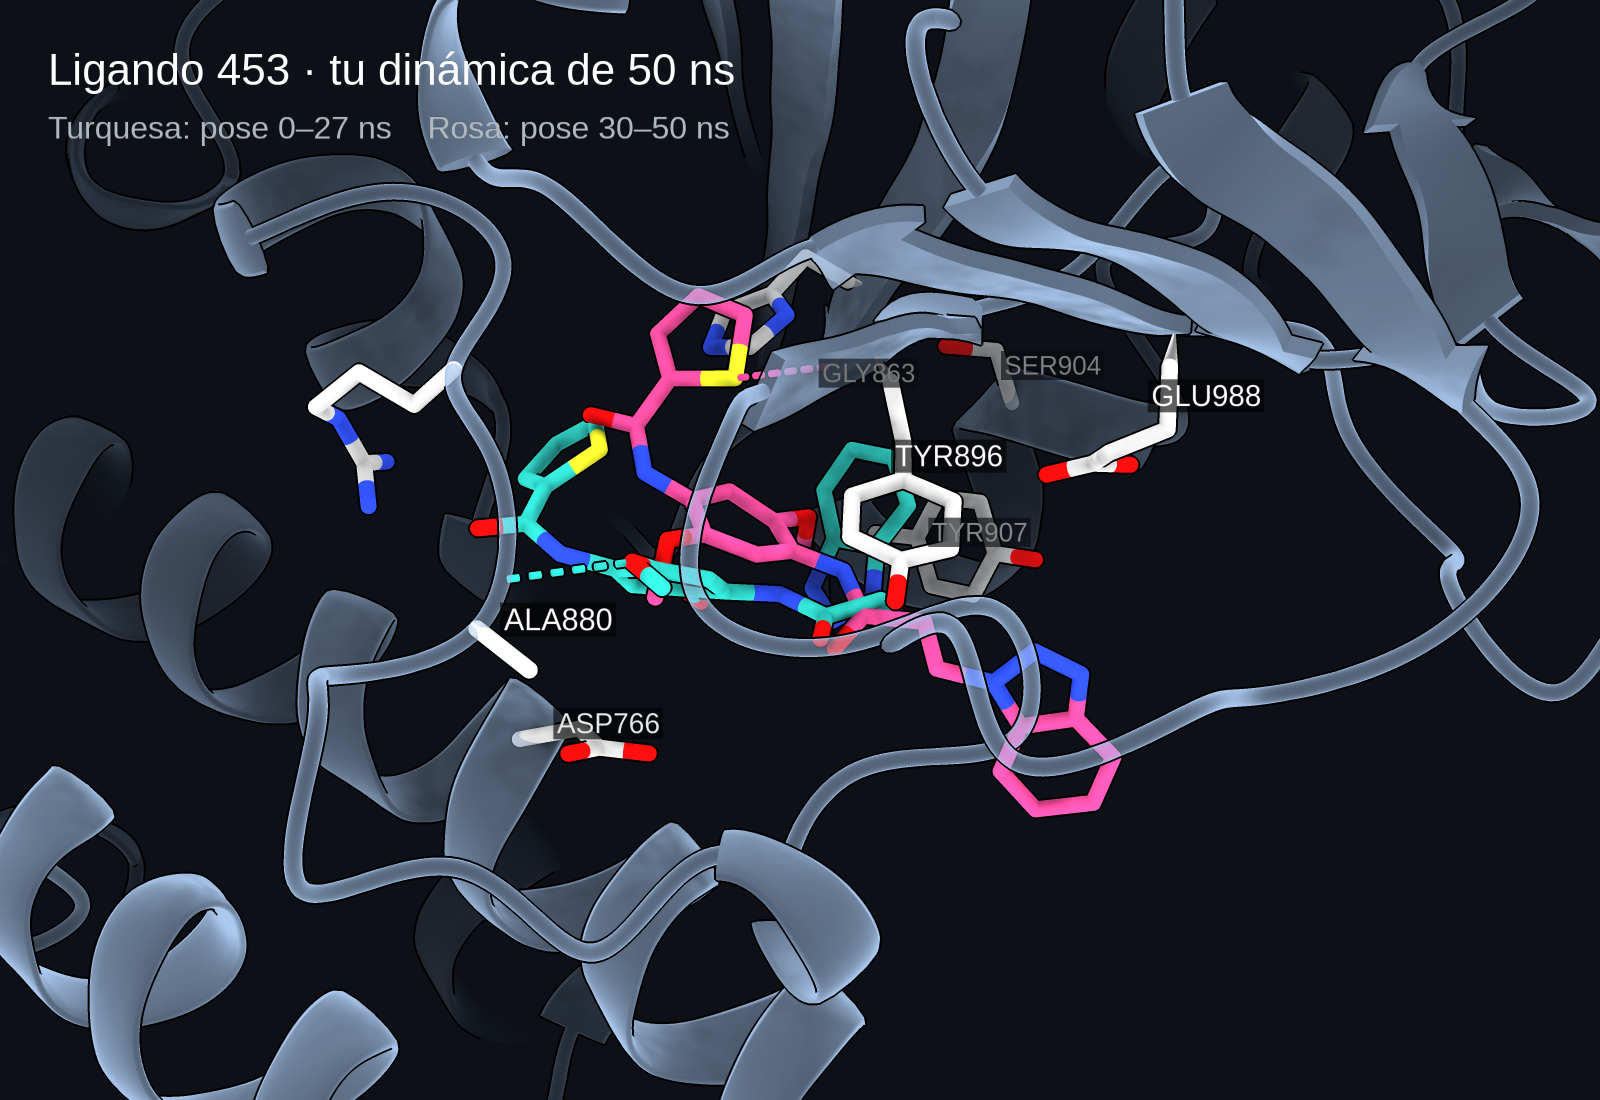
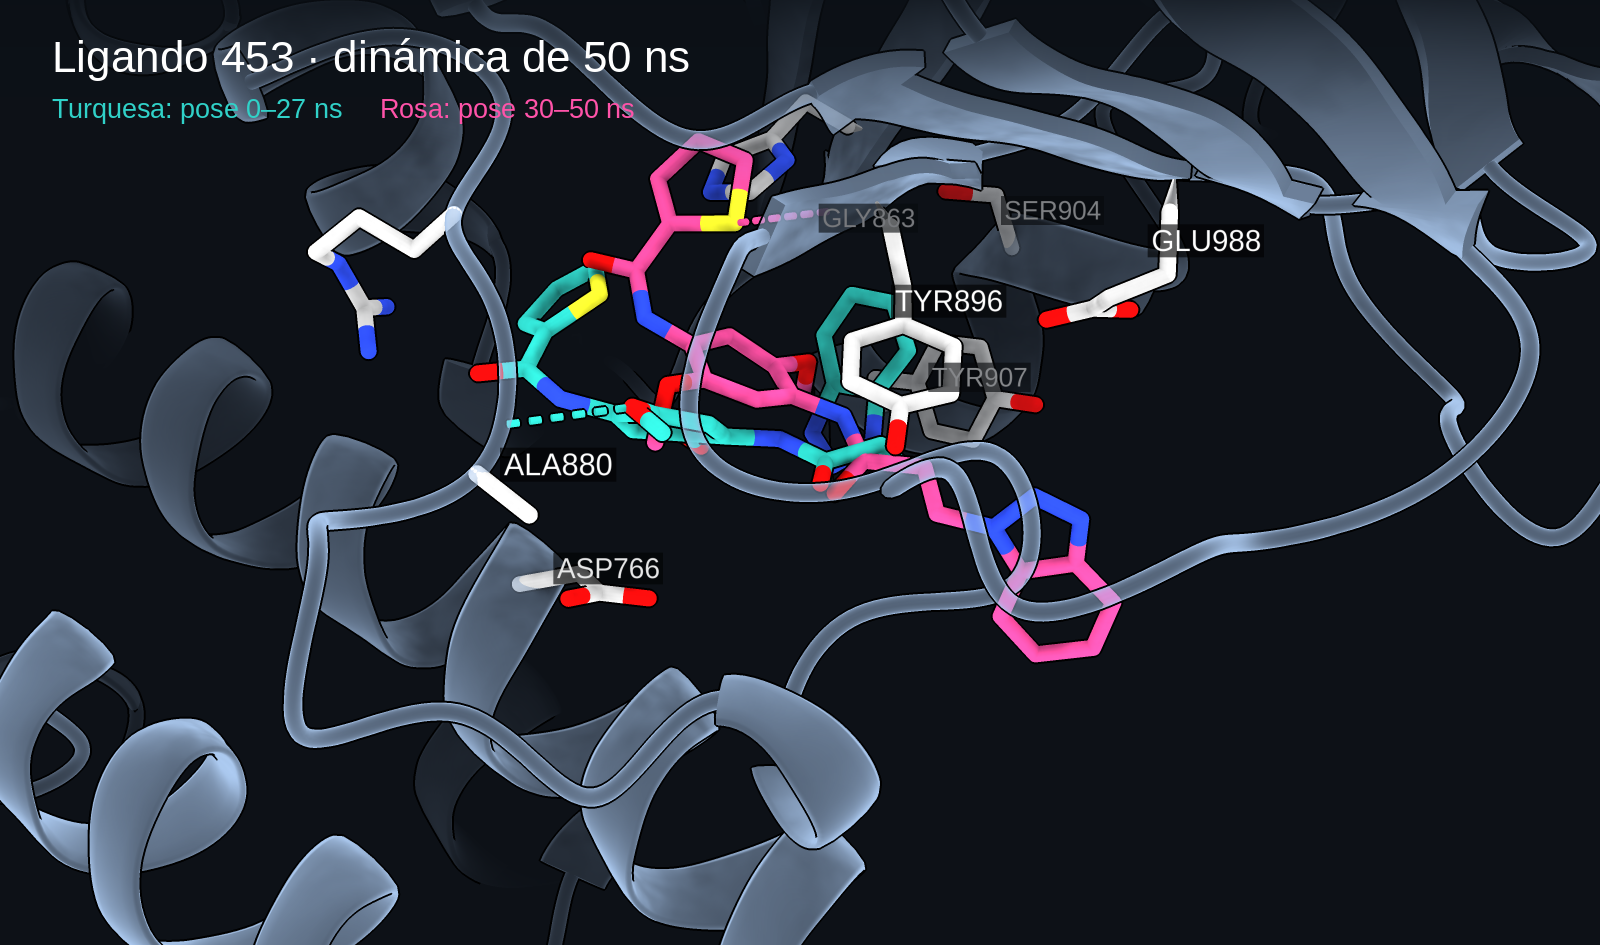
Anade dos figuras y corrige el rotulo de dos_poses
cis_amida.png pone en una imagen lo que limitations.md ya contaba en
texto: la amida del tiofeno entro en cis, un confórmero al que el propio
campo de fuerza asigna el 0,41 % del tiempo, y la barrera de 17,6
kcal/mol impidio salir de el en los 50 ns. Queda citada en la seccion
«Un limite de validez».

entrada_vs_50ns.png compara el confórmero de la biblioteca con el de
t = 50 ns sobre los 32 atomos pesados, superpuestos por el anillo
central: RMSD 3,94 A, maximo 9,86 A en C9, y el nucleo entre 0,04 y
0,09 A. Es el panel 4 de conformeros.png a tamano legible.

El rotulo de dos_poses.png decia «tu dinamica de 50 ns», una segunda
persona que no venia a cuento. La figura salio de una sesion de ChimeraX
que no se guardo, asi que el texto estaba en los pixeles: se recorto la
banda superior (solo cintas de fondo) y se redibujo. La figura pasa de
1600x1100 a 1600x945 y la leyenda va ahora en los colores que nombra.

Los scripts que generan estas tres imagenes quedan fuera del repositorio
a proposito: aqui se guarda el resultado, no la forma de dibujarlo.

diff --git a/docs/limitations.md b/docs/limitations.md
@@ -77,6 +77,8 @@ ella, y está condicionada por la primera.
 
 ### Un límite de validez — la simulación describe un confórmero que apenas se da
 
+![La amida del tiofeno: 0,41 % esperado frente al 100 % simulado](../results/md/figures/cis_amida.png)
+
 Antes era una pregunta abierta («¿gira alguna amida?»). La respuesta es
 que no gira ninguna, pero al medirlo aparece algo de más alcance: la
 del tiofeno **ya entró mal**.
